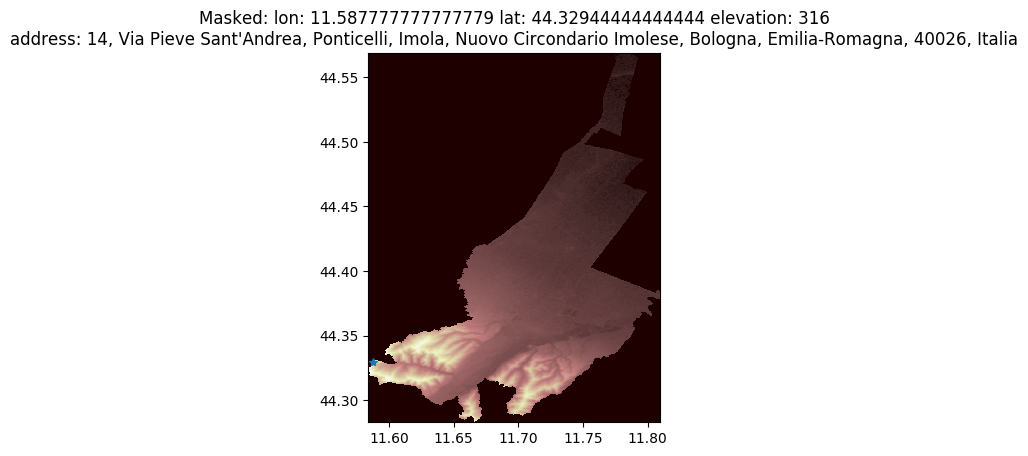
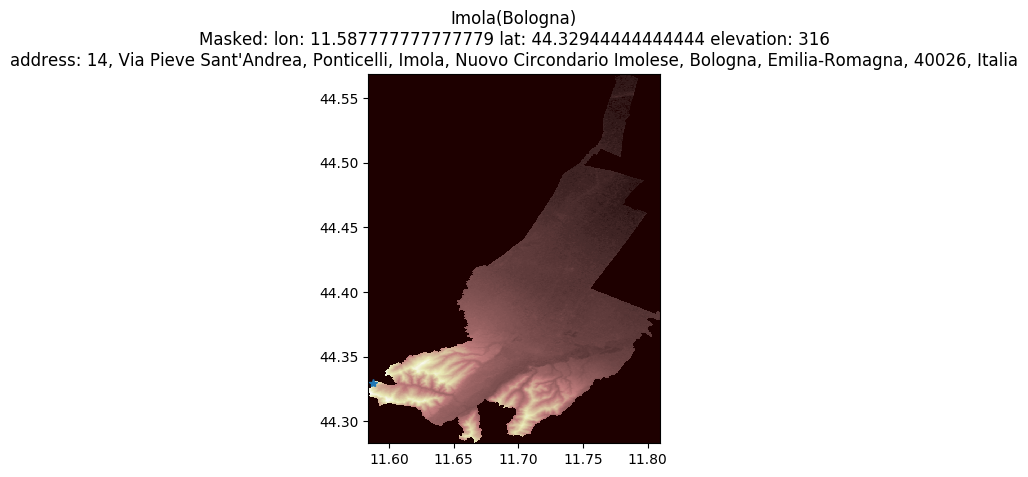
Add provincia in title

diff --git a/quota/quota.py b/quota/quota.py
@@ -15,6 +15,7 @@ import numpy as np
 import rasterio.mask
 from geopy.geocoders import Nominatim
 import unicodedata
+import pandas as pd
 
 def lon_lat(p):
     return 'lon: '+ str(p[0]) + ' lat: '+ str(p[1])
@@ -26,11 +27,18 @@ def normalize(s):
     return t
 
 def quota_max(comune):
+    obj = {}
+        
     normalized_comune = normalize(comune)
+    obj['norm_name']=normalized_comune
+
     dem_path = '/'+normalized_comune+'_DEM.tif'
     output = os.getcwd() + dem_path
 
     c = com.loc[com['COMUNE']==comune]
+    obj['COMUNE']=c.COMUNE
+    obj['COD_PROV']=c.COD_PROV
+    obj['provincia']=prov[prov.COD_PROV_Storico==c.COD_PROV.values[0]].DEN_UTS.values[0]
 
     bounds = c.to_crs('WGS84').geometry.bounds
     west = float(bounds.minx)
@@ -40,9 +48,6 @@ def quota_max(comune):
 
     elevation.clip(bounds=(west,south,east,north), output=output, product='SRTM1') #SRTM3 does not work
     dem_raster = rasterio.open('.' + dem_path)
-
-    print('DEM crs is '+str(dem_raster.crs))
-    print('DEM has '+str(dem_raster.count)+'  band(s)')
 
     c = c.to_crs(dem_raster.crs)
 
@@ -56,10 +61,13 @@ def quota_max(comune):
     peak_bb = dem_raster.xy(peak_idx[0],peak_idx[1])
     ax.plot(peak_bb[0],peak_bb[1],'*')
     location = geolocator.reverse(str(peak_bb[1])+' '+str(peak_bb[0]))
-    title = 'Bounding box: '+lon_lat(peak_bb)+' elevation: '+str(dem_raster.read(1).max())+'\naddress: '+location.address
+    obj['lon_bb']=peak_bb[0]
+    obj['lat_bb']=peak_bb[1]
+    obj['elev_bb']=dem_raster.read(1).max()
+    obj['addr_bb']=location.address
+    title = comune+' ('+obj['provincia']+')'+'\nBounding box: '+lon_lat(peak_bb)+' elevation: '+str(obj['elev_bb'])+'\naddress: '+location.address
     ax.set_title(title)
     fig.savefig(normalized_comune+'_DEM_bb.png',bbox_inches='tight')
-    print(title)
 
     out_image, out_transform = rasterio.mask.mask(dem_raster,c.geometry,crop=True)
     out_meta = dem_raster.meta
@@ -80,21 +88,40 @@ def quota_max(comune):
     peak = dem_masked.xy(peak_idx[0],peak_idx[1])
     ax.plot(peak[0],peak[1],'*')
     location = geolocator.reverse(str(peak[1])+' '+str(peak[0]))
-    title = 'Masked: '+lon_lat(peak)+ ' elevation: '+str(dem_masked.read(1).max())+'\naddress: '+location.address
+    obj['lon']=peak[0]
+    obj['lat']=peak[1]
+    obj['elev']=dem_masked.read(1).max()
+    obj['addr']=location.address     
+    title = comune+' ('+obj['provincia']+')'+'\nMasked: '+lon_lat(peak)+ ' elevation: '+str(obj['elev'])+'\naddress: '+location.address
     ax.set_title(title)
     fig.savefig(normalized_comune+'_DEM.png',bbox_inches='tight')
-    print(title)
+
     plt.close('all')
+    return obj
 
 geolocator = Nominatim(user_agent="Alessandro")    
 com = gpd.read_file('/home/ag/Downloads/Limiti01012020/Limiti01012020/Com01012020/',encoding='utf-8')
+prov = pd.read_csv('codici_statistici_e_denominazioni_delle_ripartizioni_sovracomunali.txt',sep=';',skiprows=2,encoding='utf-8')
 
-quota_max(u'Imola')
-quota_max(u'Castel del Rio')
-quota_max(u'Malé')
-quota_max(u"Sant'Angelo in Vado")
+
+objs = []
+
+o = quota_max(u'Imola')
+objs.append(o)
+
+o = quota_max(u'Castel del Rio')
+objs.append(o)
+
+o = quota_max(u'Malé')
+objs.append(o)
+
+o = quota_max(u"Sant'Angelo in Vado")
+objs.append(o)
 
 campione = com.sample(10,random_state=19760106)
 for c in campione.COMUNE:
-    print('Processing '+c)
-    quota_max(c)
+    print('\n\nProcessing '+c)
+    o = quota_max(c)
+    objs.append(o)
+
+print(objs)    
